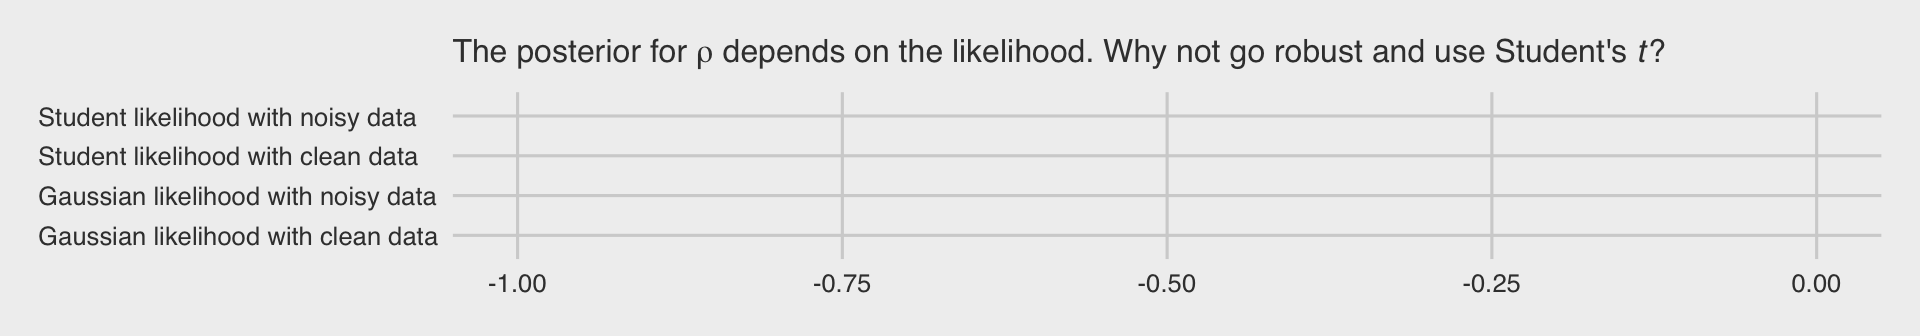
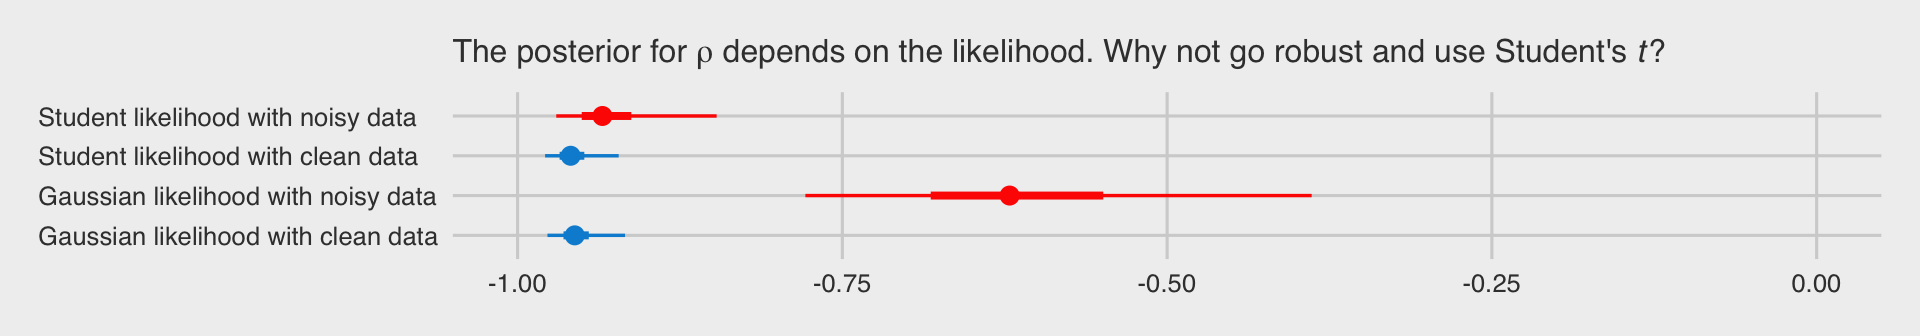
xmin = .lower, xmax = .upper

diff --git a/content/post/2019-02-10-bayesian-robust-correlations-with-brms-and-why-you-should-love-student-s-t/index.html b/content/post/2019-02-10-bayesian-robust-correlations-with-brms-and-why-you-should-love-student-s-t/index.html
@@ -330,7 +330,8 @@ posts %&gt;%
          clean = ifelse(model %in% c(&quot;f0&quot;, &quot;f3&quot;), &quot;0&quot;, &quot;1&quot;)) %&gt;%
   
   # plot
-  ggplot(aes(x = rescor__x__y, y = key, color = clean)) +
+  ggplot(aes(x = rescor__x__y, xmin = .lower, xmax = .upper, y = key, 
+             color = clean)) +
   geom_pointinterval() +
   scale_color_fivethirtyeight() +
   coord_cartesian(xlim = c(-1, 0)) +
